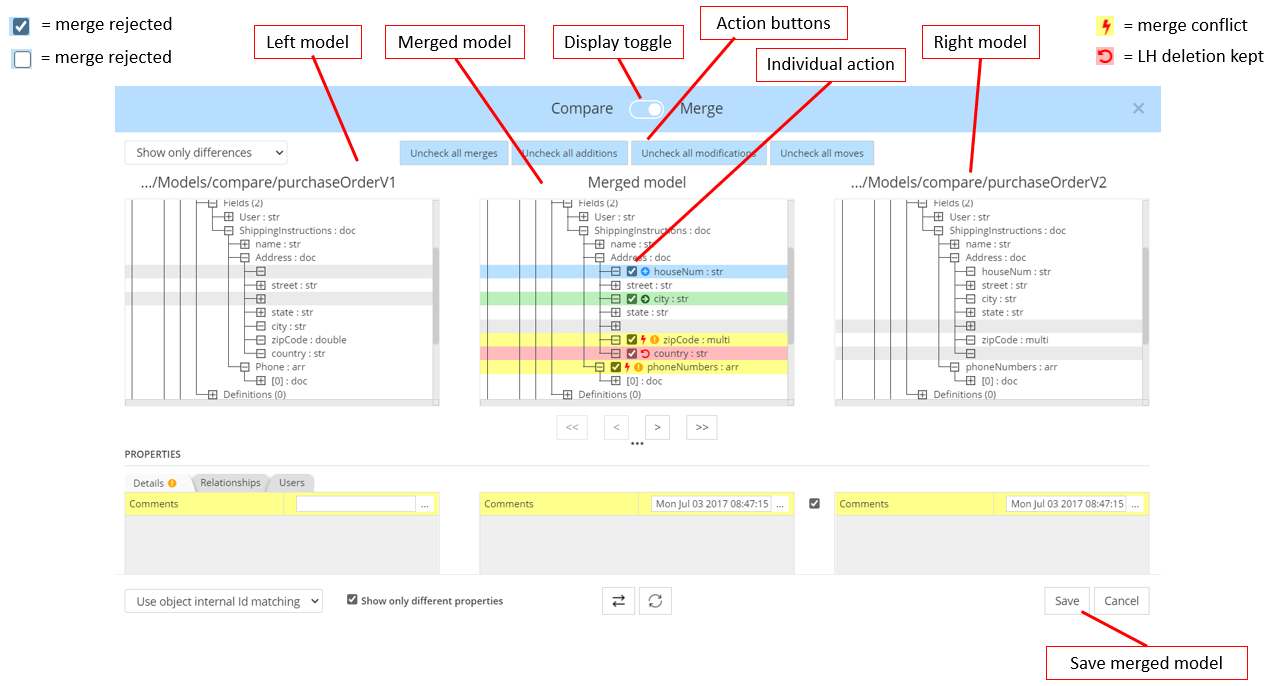
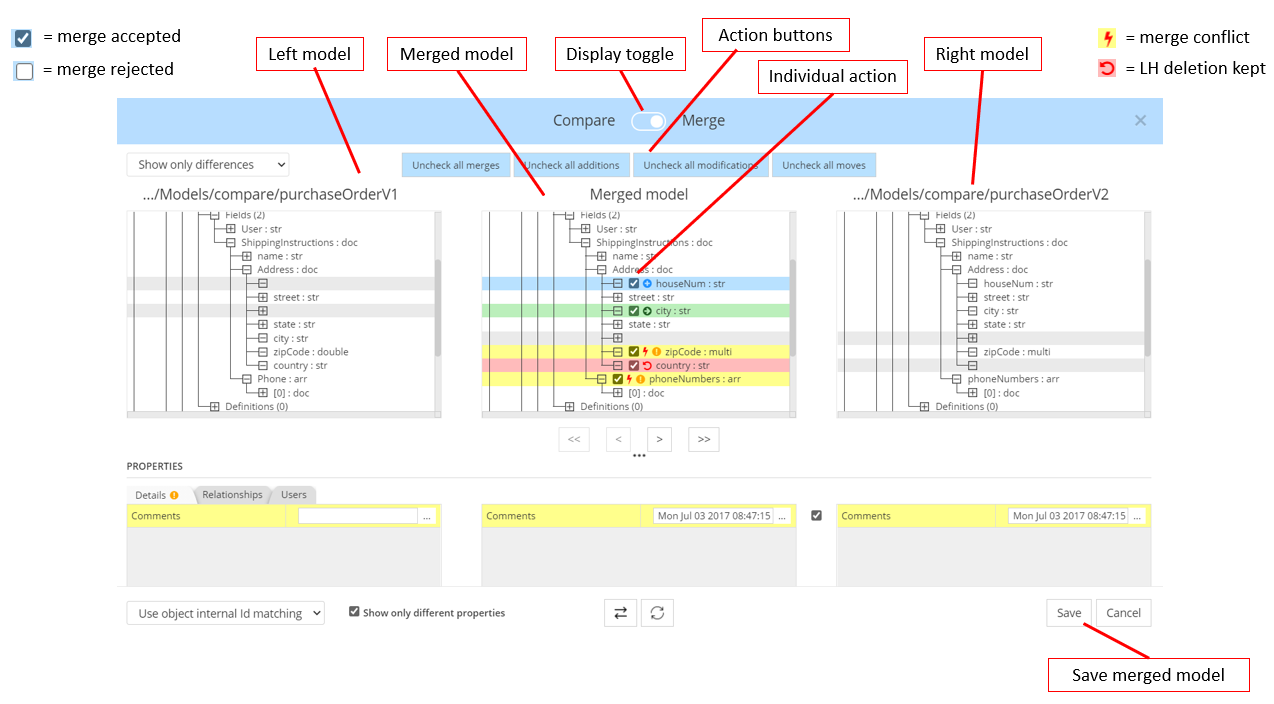
v5.1.1

diff --git a/Studio/CommandLineInterface.md b/Studio/CommandLineInterface.md
@@ -126,7 +126,7 @@ Usage:&nbsp; &nbsp; *hackolade revEng \[--arguments\]*
 
 | **Argument** | **Required** | **Purpose** |
 | --- | --- | --- |
-| \--target=\<*target*\> | Y | Native target for model: JSON, MONGODB, DYNAMODB, COUCHBASE, or plugin target: ArangoDB, Avro, CASSANDRA, COSMOSDB-SQL, COSMOSDB-MONGO, ELASTICSEARCH, EventBridge, Glue, HBase, HIVE, JOI, MSSQLServer; NEO4J, OPENAPI, PARQUET, ScyllaDB, Snowflake, SWAGGER, Synapse, TinkerPop |
+| \--target=\<*target*\> | Y | Native target for model: JSON, MONGODB, DYNAMODB, COUCHBASE, or plugin target: Avro, CASSANDRA, COSMOSDB-SQL, COSMOSDB-MONGO, ELASTICSEARCH, EventBridge, Glue, HBase, HIVE, JOI, MSSQLServer; NEO4J, OPENAPI, PARQUET, ScyllaDB, Snowflake, SWAGGER, Synapse, TinkerPop, etc.. |
 | \--connectName=\<connection\> | Y if from instance | Name of connection settings saved in the Hackolade instance where CLI is invoked. Or use --connectFile instead. |
 | \--connectFile=\<*file*\>\* | N | Full file path of connection config file (you don't need to use it when connect name is specified).&nbsp; The simplest way to create a connection file is to create a connection in the GUI application, then export the connection settings to file, encrypted or not. |
 | \--files="\<file1\>;\<file2\>..." | Y if from file | List of full file path of target scripts (MongoDB validator, Cassandra CQL, Hive HQL, Avro schema, Neo4j Cypher, Swagger documentation, etc...)&nbsp; from which reverse-engineering process has to be performed. Accepts paths divided by semicolon (schema1.avcs;schema2.avcs) when reverse-engineering from Avro/Parquet with combining schemas into one.&nbsp; |

diff --git a/Studio/v5x.md b/Studio/v5x.md
@@ -1,5 +1,21 @@
 # v5.x
 
+New features in v5.1.1 \[23-Jul-2021\]
+
+\- Model compare and Merge: added indeterminate state for partial uncheck of checkbox (now tri-state)
+
+\- Model compare and Merge: adjusted trim of long path models, plus added tooltip
+
+\- Improved rendering of large ERD models
+
+\- Collibra: added forward-engineering of foreign keys in subschemas
+
+\- Pulsar: added Command-Line Interface reverse-engineering
+
+\- SQL Server/Azure SQL: added support for forward-engineering of combined schemas,&nbsp; and of all schemas into a single file
+
+&nbsp;
+
 New features in v5.1.0 \[17-Jul-2021\]
 
 \- Collibra Data Dictionary integration.&nbsp; Requires specific license option.&nbsp; See more info at https://hackolade.com/help/CollibraDataDictionaryintegratio.html

diff --git a/Studio/Compareandmergemodels.md b/Studio/Compareandmergemodels.md
@@ -106,8 +106,6 @@ When differences are conflicting, the merge proposal uses the right-hand model v
 
 ![Image](<lib/Compare%20and%20merge%20-%20merge%20view.png>)
 
-&nbsp;
-
 ## Saving the merged model
 
 By clicking the Save button, the user has the possibility to save the merged model with only the selected merge proposals.&nbsp; This merged model can be save as a new Hackolade data model file name (recommended), or be used to write over an existing model on the file system (for example in a Git-enabled environment.)&nbsp; If using the latter method, beware of impacts of writing over an existing file.
